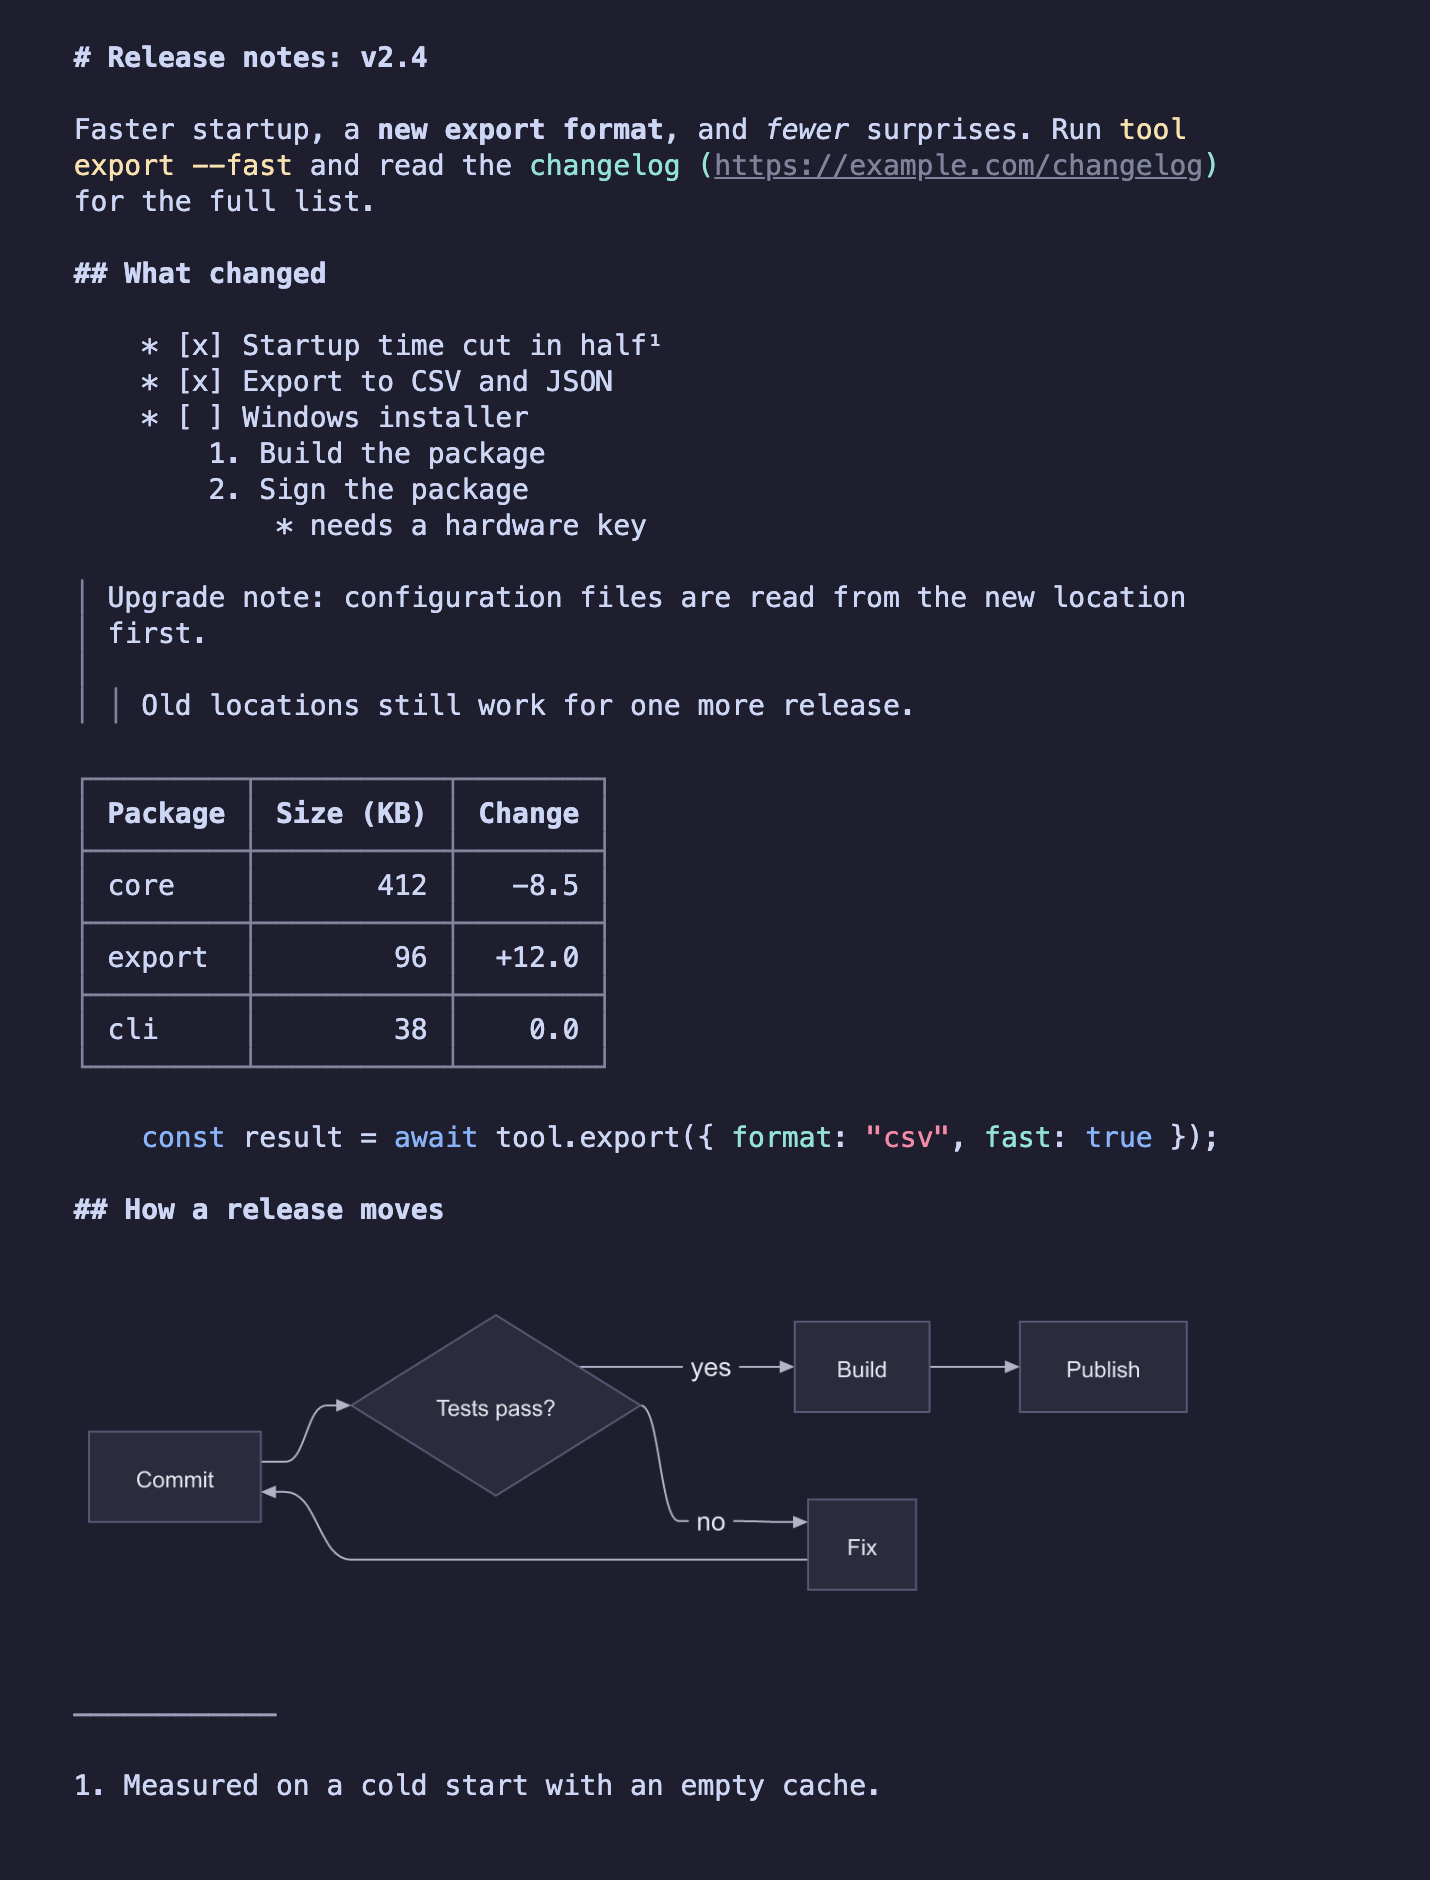
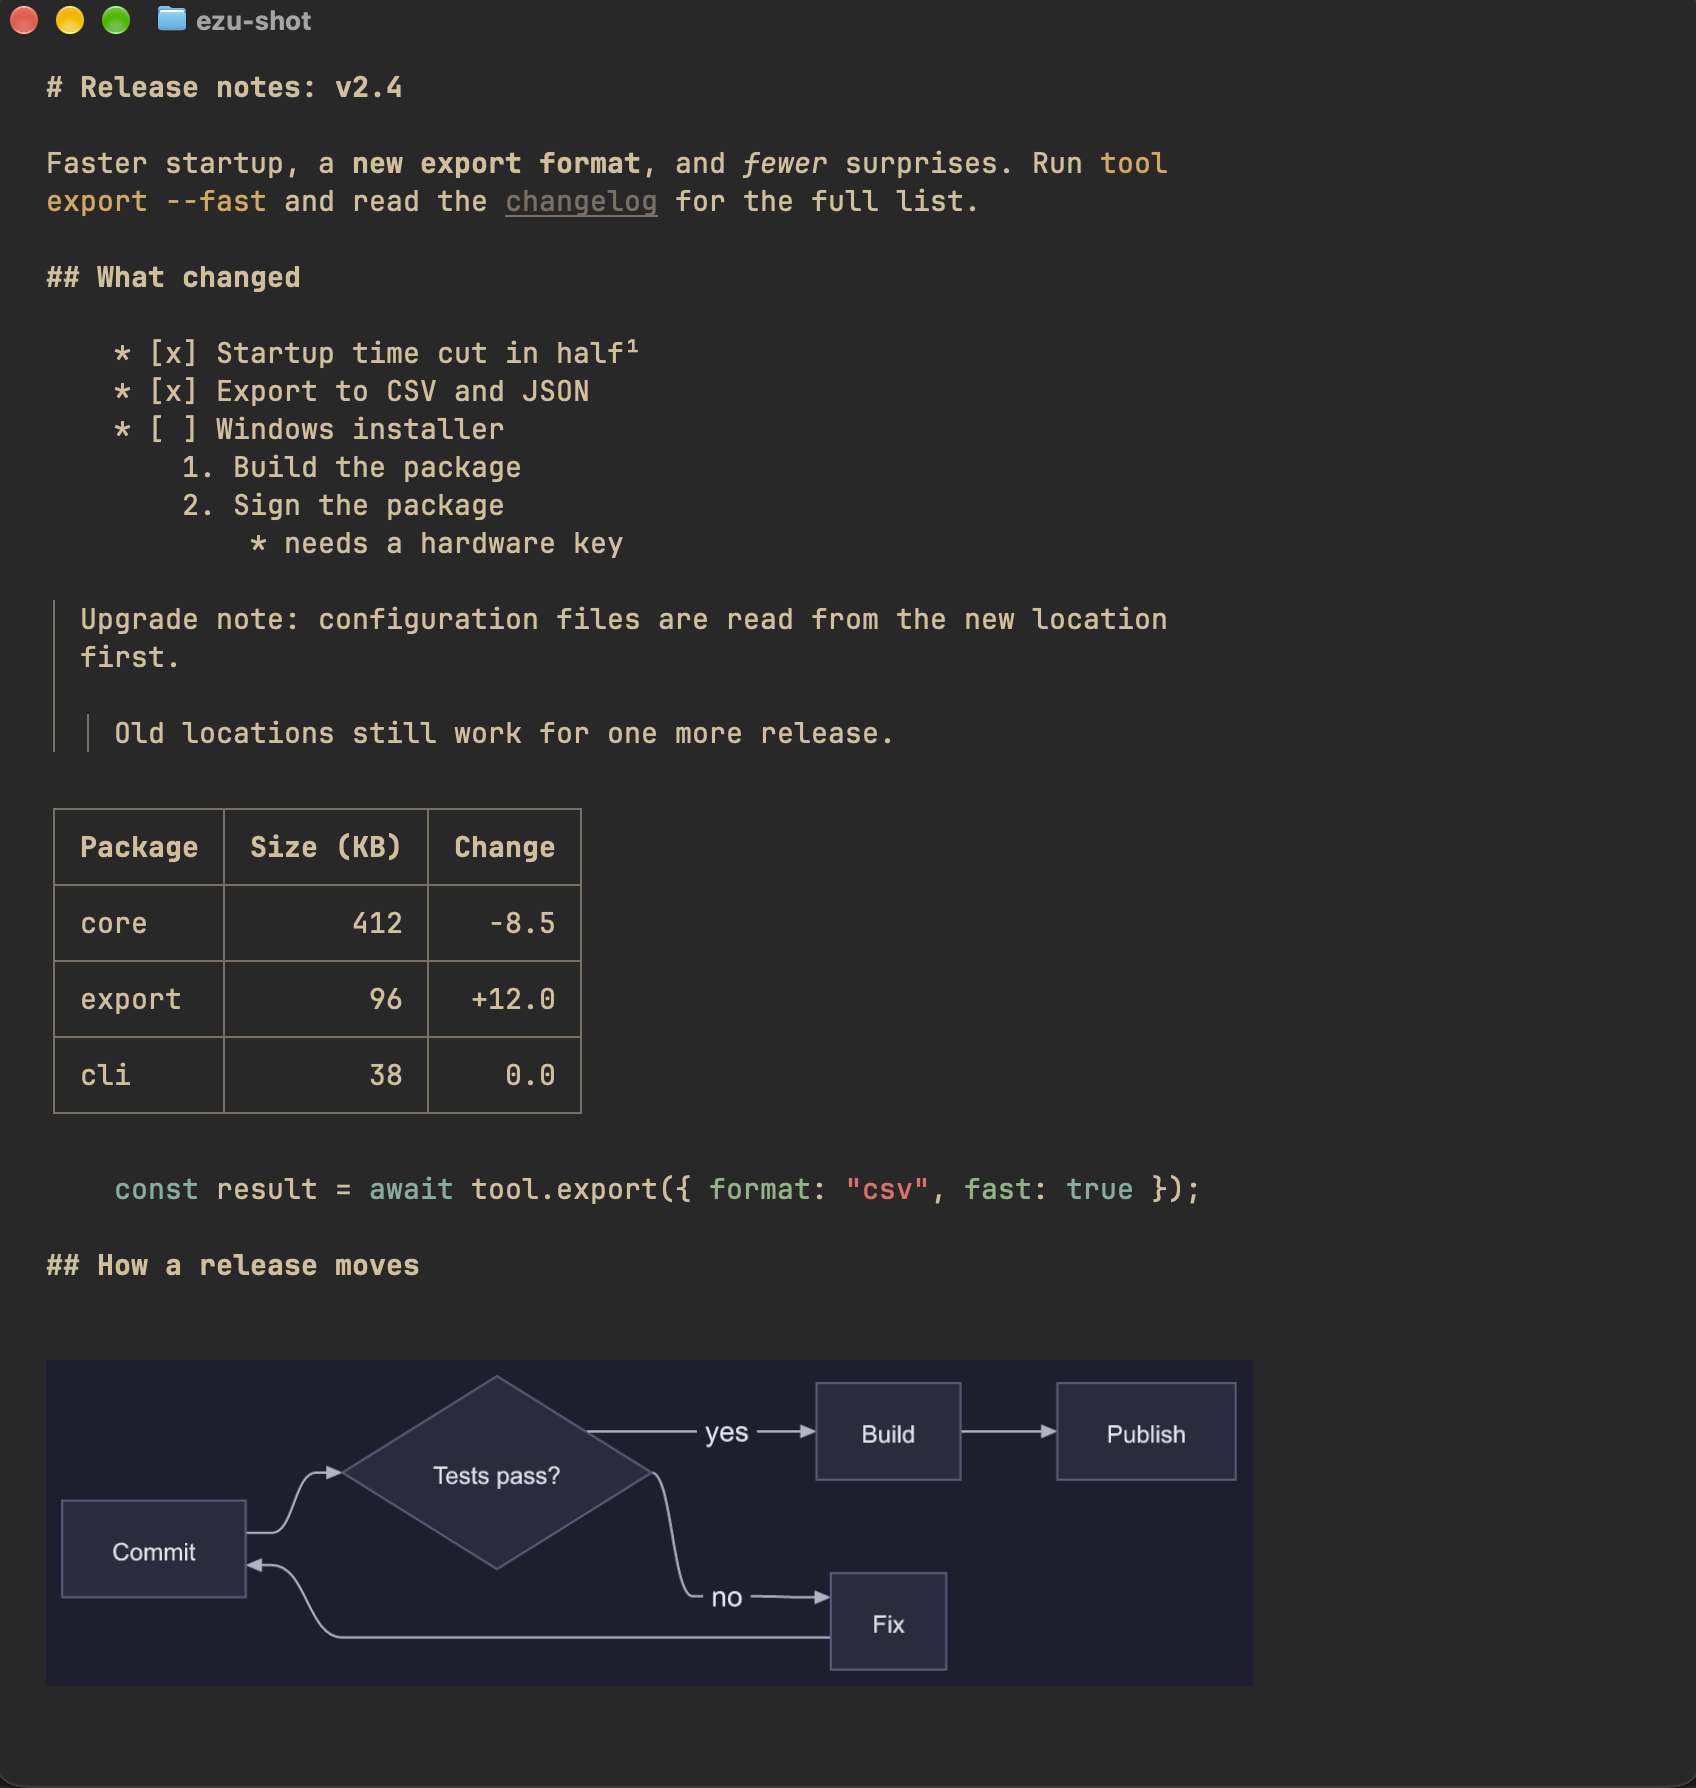
Replace redrawn images with real Ghostty screenshots
Both images now come from ezu running on demo/demo.md in Ghostty. Remove demo/screenshot.mjs, which redrew them in headless Chrome. Update the README caption to match.

diff --git a/README.md b/README.md
@@ -13,10 +13,10 @@
 - **Safe on untrusted files.** See [Security](#security).
 
 <p align="center">
-  <img src="assets/diagrams.png" alt="Nine Mermaid diagram types drawn by ezu: flowchart, sequence, class, state, er, gantt, pie, gitgraph and mindmap" width="760">
+  <img src="assets/diagrams.png" alt="The lower half of the same document in ezu: a table, a highlighted code block, a footnote and a Mermaid flowchart drawn inline" width="760">
 </p>
 
-<sub>The first screenshot is the real CLI output for <code>demo/demo.md</code>. The second shows ezu's own render of one sample per diagram type. Both use invented content and are regenerated by <code>node demo/screenshot.mjs</code>.</sub>
+<sub>Both images are real screenshots of ezu running <code>ezu demo/demo.md</code> in Ghostty. The second shows the lower half of the same output. The content is invented.</sub>
 
 ## Install
 
